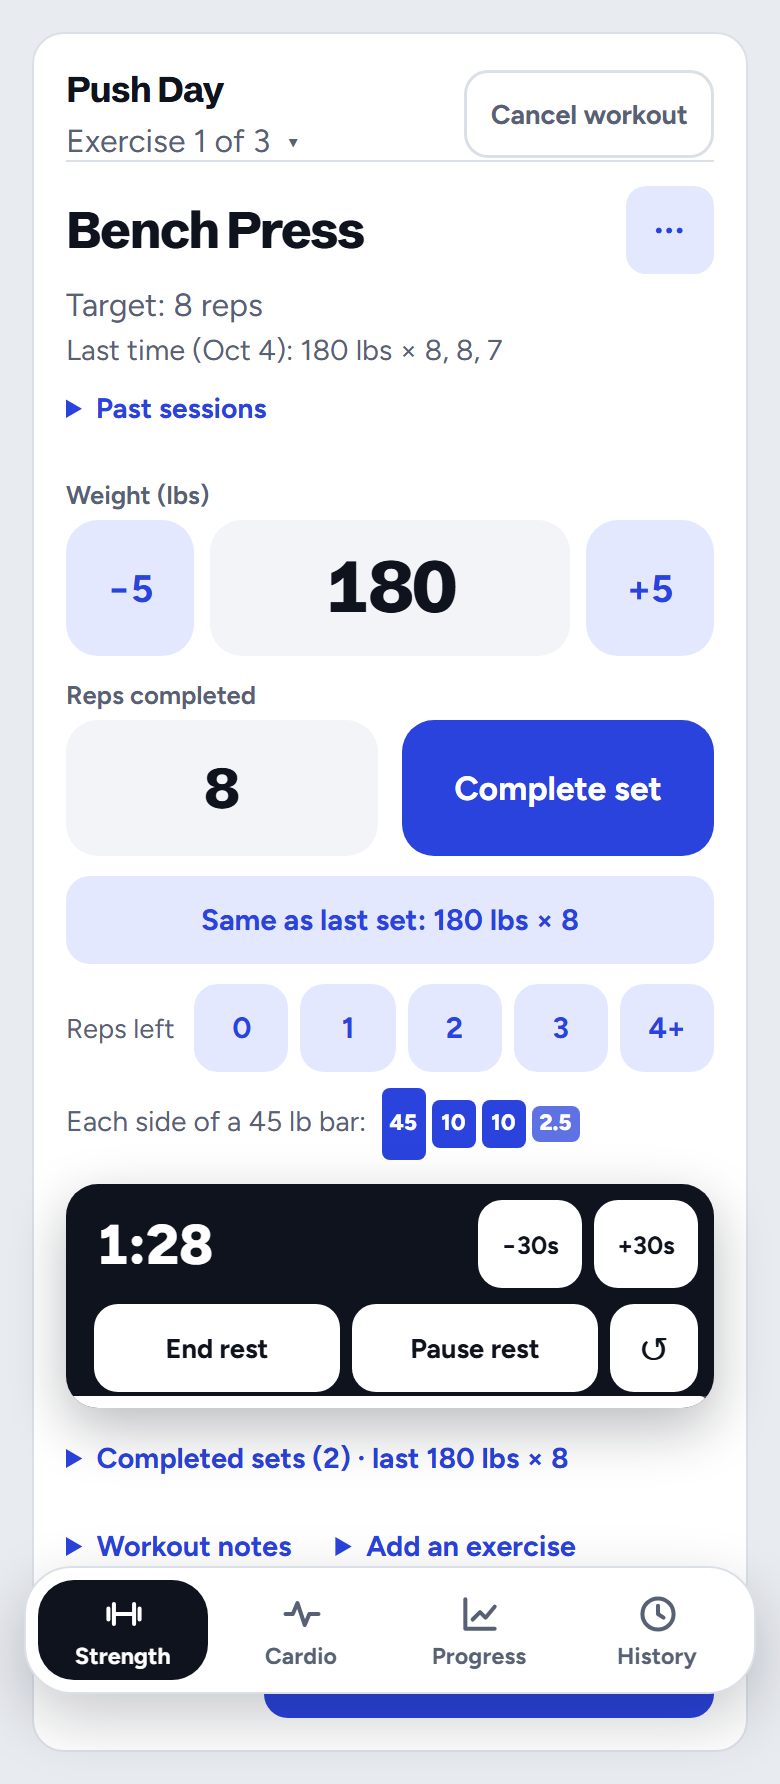
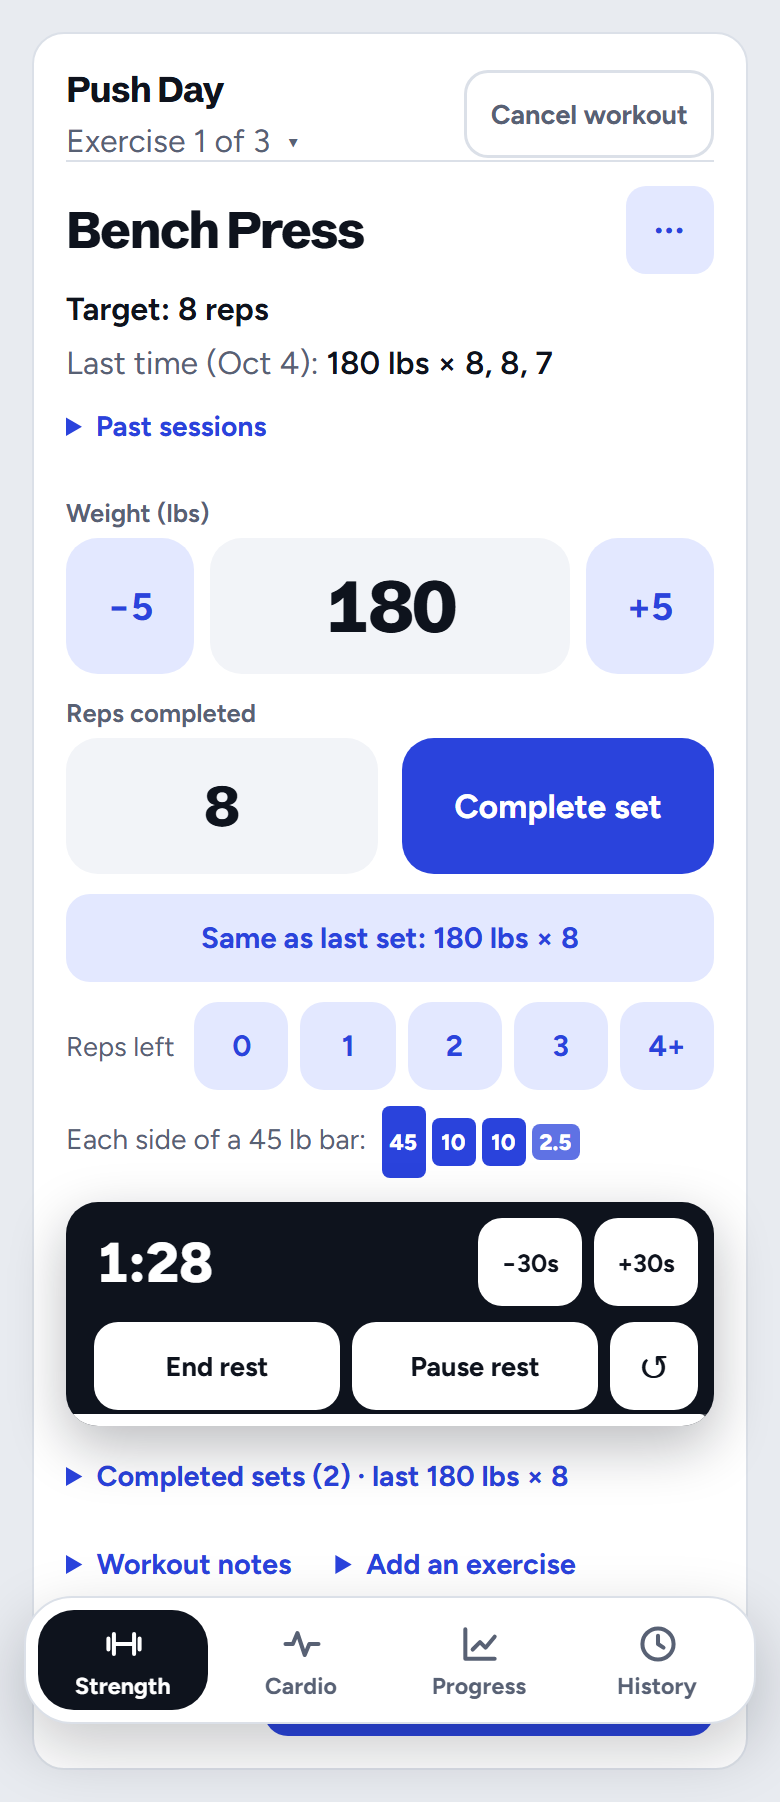
Make the next workout the Tracker's one raised surface, and last time readable mid-set
The Tracker was a stack of identical cards. The next-workout panel is now the one
raised thing: as wide as the page, with a card's corners and a larger name, and the
program around it (title, weights, weeks) lies flat on the page. Start again stays a
card; Templates and Saved workouts are plain lists set off by a hairline, their
template tiles and training-max boxes carrying their own card tone. The sections
stay .card in the markup, with a .flat modifier, so the spacing between them and the
rest being put away during a workout work as before.

Lines between rows that now sit on the page use a new --rule, darker than --line
(about 1.1 to 1 against the Light page), derived from the ink where color-mix is
supported.

On the workout screen the target and last time are body text in the ink rather than
a muted caption, and last time's sets are one span per run, which the line wraps
whole, so a weight is never parted from its reps. On a phone the line may take three
lines instead of two now that it is larger. The text itself is unchanged.

Tests: last time's runs and the ink on both lines (gym_usability), Start again as the
card and the lists flat with a rule (pages), and the program flat with its next
workout as wide as the page (program). README screenshots regenerated.

diff --git a/frontend/styles.css b/frontend/styles.css
@@ -18,7 +18,9 @@
 :root, [data-palette="light"] { --bg:#e8ebf0; --card:#fff; --ink:#0e131d; --muted:#586174; --accent:#2a43dc; --line:#dbe0e8; --on-accent:#fff;
   --accent-soft:#e3e8ff; --accent-line:#b4c0f7; --accent-ring:#2a43dc26; --sunk:#f2f4f8; --glow:#e3e8ff; }
 :root { --tab-bar:0px; --radius-control:12px; --radius-panel:16px; --radius-card:22px;
-  --font-display:"Schibsted Grotesk","Helvetica Neue",Arial,sans-serif; --font-body:Figtree,system-ui,-apple-system,"Segoe UI",sans-serif; }
+  --font-display:"Schibsted Grotesk","Helvetica Neue",Arial,sans-serif; --font-body:Figtree,system-ui,-apple-system,"Segoe UI",sans-serif;
+  --rule:var(--line); }
+@supports (color:color-mix(in srgb, red, blue)) { :root { --rule:color-mix(in srgb, var(--ink) 16%, var(--bg)); } }
 [data-theme="dark"], [data-palette="dark"] { color-scheme:dark; --bg:#0b0e13; --card:#151a22; --ink:#f0f3f8; --muted:#98a3b6; --accent:#8fa7ff; --line:#252c38; --on-accent:#080d28;
   --accent-soft:#1d2644; --accent-line:#37478a; --accent-ring:#8fa7ff33; --sunk:#10141b; --glow:#18213b; }
 /* Light themes. */
@@ -108,6 +110,14 @@ h1 { margin:0; font-size:clamp(2rem,5vw,3.25rem); font-weight:800; letter-spacin
 /* Surfaces are told from the page by their tone, a hairline and their corners, not by a shadow: shadows are kept for what floats. */
 .card { background:var(--card); border:1px solid var(--line); border-radius:var(--radius-card); padding:24px; }
 .card:not([hidden]) ~ .card { margin-top:20px; }
+/* Not everything needs a surface. On the Tracker the next workout is the one raised thing (the ink panel); the program around it, the
+   templates and the saved workouts lie flat on the page, the lists told apart by a hairline and their headings. They stay .card in
+   the markup so the spacing between sections, and the rest being put away during a workout, work as they do for every other card. */
+.card.flat { padding:0; background:none; border:0; border-radius:0; }
+.card.ruled { padding-top:18px; border-top:1px solid var(--rule); }
+/* Lines between rows that sit on the page rather than on a card use --rule, which is darker than --line (a card's hairline is drawn
+   on white or the card tone; on the page it would all but vanish, about 1.1 to 1 in Light). */
+.card.flat .saved-workout, .card.flat .more-workouts, .card.flat .program-section { border-top-color:var(--rule); }
 h2 { font-size:1.25rem; font-weight:750; letter-spacing:-.025em; margin:0 0 20px; }
 .section-heading { display:flex; justify-content:space-between; align-items:baseline; gap:16px; }
 .section-heading-actions { display:flex; align-items:center; gap:12px; }
@@ -214,7 +224,14 @@ html[data-theme="dark"] .danger, html[data-theme="dark"] .remove { color:#ff9eaa
 .set-number { color:var(--muted); font-size:.85rem; font-weight:700; }
 .set-field { display:flex; align-items:center; gap:6px; color:var(--muted); font-size:.85rem; }
 .set-edit { min-width:0; padding:8px 9px; }
-.active-exercise .subtitle + .subtitle { margin-top:4px; }
+/* What to do this set, and what was done last time, are read mid-set and at arm's length: body text in the ink, not a muted caption.
+   In last time's line the label is the quiet part and the sets the firm one. */
+.exercise-context { margin:6px 0 0; color:var(--ink); font-size:1rem; line-height:1.45; }
+.exercise-context.target { font-weight:650; }
+.exercise-context + .exercise-context { margin-top:4px; }
+.context-label { color:var(--muted); }
+/* A run of sets goes to the next line whole when it fits there, and breaks inside itself only when it is longer than a line. */
+.set-run { display:inline-block; max-width:100%; font-weight:600; }
 .footer-buttons { display:flex; gap:10px; }
 .add-exercise { margin-top:18px; }
 .add-exercise summary { color:var(--accent); font-size:.9rem; font-weight:700; cursor:pointer; }
@@ -277,7 +294,7 @@ html[data-theme="dark"] .link-button.danger-link { color:#ff9eaa; }
 .rest-adjust button { padding:6px 10px; color:var(--ink); font-size:.82rem; background:var(--card); }
 .rest-actions button { padding:9px 13px; color:var(--ink); background:var(--card); }
 .template-grid { display:grid; grid-template-columns:repeat(2, minmax(0, 1fr)); gap:14px; }
-.template-card { display:flex; flex-direction:column; justify-content:space-between; gap:16px; padding:16px; border:1px solid var(--line); border-radius:12px; }
+.template-card { display:flex; flex-direction:column; justify-content:space-between; gap:16px; padding:16px; background:var(--card); border:1px solid var(--line); border-radius:12px; }
 .template-card h3 { margin:0 0 6px; font-size:1rem; }
 .template-card p { margin:0; color:var(--muted); font-size:.85rem; line-height:1.5; }
 .template-card button { align-self:flex-start; padding:9px 12px; font-size:.82rem; }
@@ -312,16 +329,17 @@ html[data-theme="dark"] .link-button.danger-link { color:#ff9eaa; }
 html[data-theme="dark"] .plan-sets li.done { color:#a5e5c2; background:#193b2d; border-color:#2f654b; }
 .program-notice { margin:0 0 16px; padding:12px 14px; color:#22634c; background:#edf9f2; border:1px solid #b9e3ca; border-radius:10px; font-size:.9rem; }
 html[data-theme="dark"] .program-notice { color:#a5e5c2; background:#193b2d; border-color:#2f654b; }
-.program-next { display:flex; justify-content:space-between; align-items:center; gap:16px; padding:16px; color:var(--card); background:var(--ink); border-radius:var(--radius-panel); }
+/* The next workout is the Tracker's one raised surface, so it is the biggest thing on it: a card's own corners, and its name large. */
+.program-next { display:flex; justify-content:space-between; align-items:center; gap:16px; padding:20px 22px; color:var(--card); background:var(--ink); border-radius:var(--radius-card); }
 .program-kicker { color:var(--card); background:var(--ink); font-size:.85rem; font-weight:700; opacity:.8; }
-.program-next strong { display:block; margin-top:4px; font-size:1.5rem; font-weight:800; letter-spacing:-.03em; }
+.program-next strong { display:block; margin-top:4px; font-size:clamp(1.65rem,5.5vw,2.25rem); font-weight:800; letter-spacing:-.035em; line-height:1.1; }
 .program-next ul { margin:8px 0 0; padding:0; list-style:none; color:var(--card); background:var(--ink); opacity:.8; font-size:.88rem; line-height:1.6; }
 .program-next-actions, .program-day-actions { display:flex; align-items:center; gap:8px; flex-shrink:0; }
 .program-next .primary { color:var(--ink); background:var(--card); }
 .program-next .secondary { color:var(--card); background:var(--ink); box-shadow:inset 0 0 0 1.5px var(--card); }
 .program-subheading { margin:22px 0 10px; font-size:.95rem; }
 .program-maxes { display:grid; grid-template-columns:repeat(auto-fit, minmax(150px, 1fr)); gap:10px; margin:0; padding:0; list-style:none; }
-.program-maxes li { display:grid; gap:3px; padding:12px; border:1px solid var(--line); border-radius:10px; }
+.program-maxes li { display:grid; gap:3px; padding:12px; background:var(--card); border:1px solid var(--line); border-radius:10px; }
 .program-maxes span, .program-maxes small { color:var(--muted); font-size:.8rem; }
 .program-maxes strong { font-size:1.1rem; }
 .program-maxes small.warn { color:#ab3a49; }
@@ -636,7 +654,6 @@ h2 { margin-bottom:14px; }
 .program-heading { align-items:flex-start; }
 .program-heading h2 { margin-bottom:4px; }
 .program-heading .subtitle { margin:0 0 14px; }
-.program-next { padding:14px; }
 .program-next ul { line-height:1.45; }
 .program-section { border-top:1px solid var(--line); }
 .program-next + .program-section, .program-notice + .program-section { margin-top:14px; }
@@ -676,8 +693,8 @@ h2 { margin-bottom:14px; }
 @media (max-width:620px) {
   .card { padding:16px; border-radius:var(--radius-panel); }
   .card:not([hidden]) ~ .card { margin-top:12px; }
-  /* Last time's sets are the longest line on the screen; two lines of them, and the set entry stays where the thumb is. */
-  #activeExerciseLast { display:-webkit-box; -webkit-box-orient:vertical; -webkit-line-clamp:2; line-clamp:2; overflow:hidden; font-size:.9rem; }
+  /* Last time's sets are the longest line on the screen; three lines of them at most, and the set entry stays where the thumb is. */
+  #activeExerciseLast { display:-webkit-box; -webkit-box-orient:vertical; -webkit-line-clamp:3; line-clamp:3; overflow:hidden; }
   /* A dialog is a sheet that rises from the bottom, where the thumb is. */
   .modal-backdrop { padding:0; place-items:end center; }
   .settings-modal { width:100%; max-height:92%; padding:20px 18px calc(20px + env(safe-area-inset-bottom)); border-bottom:0; border-radius:24px 24px 0 0; }

diff --git a/frontend/index.html b/frontend/index.html
@@ -50,7 +50,7 @@
         <div class="swap-panel guide-panel" id="guidePanel" hidden><h4 id="guideTitle"></h4><p class="subtitle guide-for" id="guideFor" hidden></p><ol class="guide-steps" id="guideSteps"></ol><p class="guide-mistake" id="guideMistake" hidden></p><p class="guide-none subtitle" id="guideNone" hidden></p><div class="note-actions"><a class="guide-video" id="guideVideo" href="#" target="_blank" rel="noopener noreferrer">Find a video demo</a><button class="secondary" id="guideClose" type="button">Close</button></div></div>
         <div class="swap-panel" id="notePanel" hidden><label for="noteText">Note for this exercise</label><textarea class="notes-input" id="noteText" rows="2" maxlength="2000" placeholder="e.g. Seat on 4, grip on the rings"></textarea><div class="note-actions"><button class="primary" id="noteSave" type="button">Save note</button><button class="secondary" id="noteCancel" type="button">Cancel</button></div><p class="subtitle">Shown whenever you do this exercise, in any workout. Save it empty to remove it.</p></div>
         <p class="exercise-note" id="exerciseNote" hidden></p><p class="subtitle superset-line" id="supersetLine" hidden></p>
-        <p id="activeExerciseTarget" class="subtitle"></p><p id="activeExerciseLast" class="subtitle" hidden></p><p class="progression-hint" id="progressionHint" hidden><span id="progressionText"></span> <button class="link-button" id="progressionUse" type="button"></button></p><details class="past-sessions" id="pastSessions" hidden><summary>Past sessions</summary><ul id="pastSessionList"></ul><a class="past-sessions-link" id="exerciseHistoryLink" href="progress.html">Every session, chart and records</a></details><ol class="plan-sets" id="activePlan" aria-label="Planned sets" hidden></ol></div>
+        <p id="activeExerciseTarget" class="exercise-context target"></p><p id="activeExerciseLast" class="exercise-context" hidden></p><p class="progression-hint" id="progressionHint" hidden><span id="progressionText"></span> <button class="link-button" id="progressionUse" type="button"></button></p><details class="past-sessions" id="pastSessions" hidden><summary>Past sessions</summary><ul id="pastSessionList"></ul><a class="past-sessions-link" id="exerciseHistoryLink" href="progress.html">Every session, chart and records</a></details><ol class="plan-sets" id="activePlan" aria-label="Planned sets" hidden></ol></div>
       <div class="set-entry">
         <div class="weight-entry"><label for="activeWeight">Weight (<span class="unit-label">lbs</span>)</label><div class="weight-stepper" id="weightStepper"><button class="secondary" type="button" data-weight-step="-5" aria-label="5 lbs lighter">&minus;5</button><input id="activeWeight" type="number" inputmode="decimal" min="0" step="0.5" placeholder="0" /><button class="secondary" type="button" data-weight-step="5" aria-label="5 lbs heavier">+5</button></div></div>
         <div class="reps-entry"><label for="completedReps" id="completedRepsLabel">Reps completed</label><input id="completedReps" type="number" inputmode="numeric" min="1" step="1" placeholder="0" /></div>
@@ -88,7 +88,7 @@
       <div class="schedule-actions"><button class="primary" id="scheduleStart" type="button" hidden></button><button class="link-button" id="scheduleChange" type="button">Change schedule</button></div>
     </section>
 
-    <section class="card between-workouts" id="programCard" hidden>
+    <section class="card between-workouts flat" id="programCard" hidden>
       <div class="section-heading program-heading"><div><h2 id="programTitle">Training program</h2><p id="programSummary" class="subtitle"></p></div><details class="row-menu program-menu"><summary class="secondary" aria-label="Program options">&middot;&middot;&middot;</summary><div class="row-menu-items"><button id="editProgramBtn" type="button">Edit program</button><button id="calendarProgramBtn" type="button">Add to calendar</button><button class="danger" id="endProgramBtn" type="button">End program</button></div></details></div>
       <p class="program-notice" id="programNotice" role="status" hidden></p>
       <div class="program-next" id="programNext"></div>
@@ -102,7 +102,7 @@
       <ul class="recent-list" id="recentList"></ul>
     </section>
 
-    <section class="card between-workouts">
+    <section class="card between-workouts flat ruled">
       <div class="section-heading"><div><h2>Templates</h2></div><div class="section-heading-actions"><button class="secondary" id="templatesToggle" type="button" aria-controls="templateArea" aria-expanded="false">Show templates</button></div></div>
       <div id="templateArea" hidden>
         <div class="template-grid" id="templateList"></div>
@@ -110,7 +110,7 @@
       </div>
     </section>
 
-    <section class="card between-workouts">
+    <section class="card between-workouts flat ruled">
       <div class="section-heading"><div><h2>Saved workouts</h2><p id="storageStatus" class="subtitle"></p></div><div class="section-heading-actions"><button class="secondary" id="createWorkoutBtn" type="button">Create workout</button></div></div>
       <ul class="saved-workout-list" id="savedWorkoutList"><li class="empty">No saved workouts yet.</li></ul>
     </section>

diff --git a/frontend/script.js b/frontend/script.js
@@ -250,6 +250,24 @@ function completedSetsHtml(exercise, timed) {
     + `<button class="remove" type="button" data-remove-set="${index}" aria-label="Remove set ${index + 1}" title="Remove">&times;</button></li>`).join('');
 }
 
+// Last time's line: the label, then each run of sets ("75 lbs × 5", "115 lbs × 5, 5, 9") as one span, which the line wraps
+// whole (see .set-run), so a weight is never left on one line and its reps on the next. The text is what it always was;
+// describeLoggedSets joins its runs with " · ", which no run contains.
+function showLastTime(label, described) {
+  const line = $('activeExerciseLast');
+  const labelSpan = document.createElement('span');
+  labelSpan.className = 'context-label';
+  labelSpan.textContent = label;
+  line.replaceChildren(labelSpan);
+  described.split(' · ').forEach((run, index) => {
+    if (index) line.append(' · ');
+    const part = document.createElement('span');
+    part.className = 'set-run';
+    part.textContent = run;
+    line.append(part);
+  });
+}
+
 function renderActiveWorkout() {
   const exercise = activeSession.exercises[activeSession.currentIndex];
   exercise.sets = exercise.sets || [];
@@ -267,7 +285,7 @@ function renderActiveWorkout() {
   $('activeExerciseLast').hidden = !previous;
   if (previous) {
     const when = new Date(previous.date).toLocaleDateString(undefined, { month:'short', day:'numeric' });
-    $('activeExerciseLast').textContent = `Last time (${when}): ${describeLoggedSets(previous.sets, timed)}`;
+    showLastTime(`Last time (${when}): `, describeLoggedSets(previous.sets, timed));
   }
   $('completedRepsLabel').textContent = timed ? 'Seconds' : 'Reps completed';
   // Once a set is logged, one tap logs it again, whatever the fields were changed to since.

diff --git a/tests/suites/pages.py b/tests/suites/pages.py
@@ -369,6 +369,14 @@ def run(t):
     check('Start again offers the recent workouts, the one done longest ago first', shown == ['C Day', 'A Day', 'B Day'], shown)
     check('above the templates and the saved workouts',
           top('#recentCard') < top('#templatesToggle') < top('#savedWorkoutList'), f"{top('#recentCard')} {top('#templatesToggle')}")
+    # Start again is the one surface among them; the templates and the saved workouts lie flat on the page, set off by a hairline.
+    surfaces = cdp.ev("""['recentCard', 'templatesToggle', 'savedWorkoutList'].map(id => {
+        const style = getComputedStyle(document.getElementById(id).closest('section'));
+        return { fill: style.backgroundColor, top: style.borderTopWidth, side: style.borderLeftWidth }; })""")
+    clear = 'rgba(0, 0, 0, 0)'
+    check('Start again is a card, and the templates and saved workouts are flat on the page with a rule above',
+          surfaces[0]['fill'] != clear and surfaces[0]['side'] == '1px'
+          and all(s == {'fill': clear, 'top': '1px', 'side': '0px'} for s in surfaces[1:]), surfaces)
     check('with the templates folded away, since there is history', cdp.ev("document.getElementById('templateArea').hidden") is True)
     check('a button says how many there are', cdp.ev("document.getElementById('templatesToggle').textContent") == 'Show templates (9)',
           cdp.ev("document.getElementById('templatesToggle').textContent"))

diff --git a/tests/suites/program.py b/tests/suites/program.py
@@ -100,6 +100,14 @@ def run(t):
     cdp.pause(0.5)
     check('the dialog closes', visible('programModal') is False)
     check('the program card appears', visible('programCard') and text('programTitle') == 'Wendler 5/3/1')
+    # The next workout is the Tracker's one raised surface: the program around it is flat on the page, and it is as wide as the page.
+    check('the program lies flat, its next workout a panel as wide as the page',
+          cdp.ev("""(() => { const card = getComputedStyle(document.getElementById('programCard'));
+              const panel = document.getElementById('programNext');
+              const width = element => element.getBoundingClientRect().width;
+              return card.backgroundColor === 'rgba(0, 0, 0, 0)' && card.borderTopWidth === '0px'
+                  && getComputedStyle(panel).backgroundColor !== 'rgba(0, 0, 0, 0)'
+                  && Math.abs(width(panel) - width(document.querySelector('main'))) < 1; })()""") is True)
     summary = text('programSummary')
     check('at the start of cycle 1', 'Cycle 1' in summary and '0 of 16 workouts done' in summary and 'week 1 of 4, 5s week' in summary, summary)
     check('the user is told what comes first', 'Press Day, week 1' in text('formFeedback'), text('formFeedback'))

diff --git a/tests/suites/gym_usability.py b/tests/suites/gym_usability.py
@@ -50,6 +50,13 @@ def run(t):
     cdp.pause(0.4)
     last = text('activeExerciseLast')
     check('shows the most recent session of the exercise', visible('activeExerciseLast') and 'Last time' in last and '105 lbs × 8' in last, last)
+    # Read mid-set, so both lines are body text in the ink, and each run of sets is one span the line wraps whole.
+    runs = cdp.ev("[...document.querySelectorAll('#activeExerciseLast .set-run')].map(s => s.textContent)")
+    check('each run of last time\'s sets is one piece, with the label and the text as they were',
+          runs and '105 lbs × 8' in runs and last.startswith('Last time (') and last.endswith('): ' + ' · '.join(runs)), [runs, last])
+    ink = cdp.ev("getComputedStyle(document.querySelector('h1')).color")
+    colours = cdp.ev("['activeExerciseTarget', 'activeExerciseLast'].map(id => getComputedStyle(document.getElementById(id)).color)")
+    check('and the target and last time are in the ink, not the muted caption colour', colours == [ink, ink], [ink, colours])
     check('prefills weight and reps from it (template has no weight)', field('activeWeight') == '105' and field('completedReps') == '8', f"{field('activeWeight')} × {field('completedReps')}")
     log(110, 6)
     cdp.pause(0.3)

diff --git a/readme-for-llm.md b/readme-for-llm.md
@@ -65,6 +65,9 @@ own workouts, templates, and settings.
   Start again, with up to three recent workouts and the one you did longest ago first (going round
   push, pull and legs, that is the one due). Templates fold away once you have saved workouts or a
   program, a tap from showing again.
+- The next workout is the Tracker's one raised surface: a dark panel as wide as the page, with the program
+  (its weights and weeks, folded) lying flat around it. Start again is a card; the templates and saved
+  workouts are plain lists on the page, set off by a hairline.
 - During a workout the Tracker is only the workout: the program, Start again, templates and saved
   workouts wait behind "Show the rest of the Tracker" under it, and come back when the workout ends.
 - On a phone the header is just the page's name and Settings, and Strength (the Tracker), Cardio, Progress and History
@@ -119,6 +122,7 @@ own workouts, templates, and settings.
   heavier and warm-ups use. It loads the fewest plates that make the weight, so with 2 kg plates and no
   1.25s, 4 kg a side is two 2s. Pounds and kilograms each keep their own.
 - See how you did last time on each exercise; its weight and reps are prefilled, and after each set the next one defaults to the set you just logged.
+  What to do this set and last time's sets are in the ink at body size, each run of sets kept whole when the line wraps.
 - View completed sets during the workout, correct a set's weight or reps in place, or remove a set that was logged by mistake.
   They fold away under Completed sets, beside Workout notes and Add an exercise, with a count of how many are done
   and the last one logged ("Completed sets (3) · last 145 lbs × 6").
